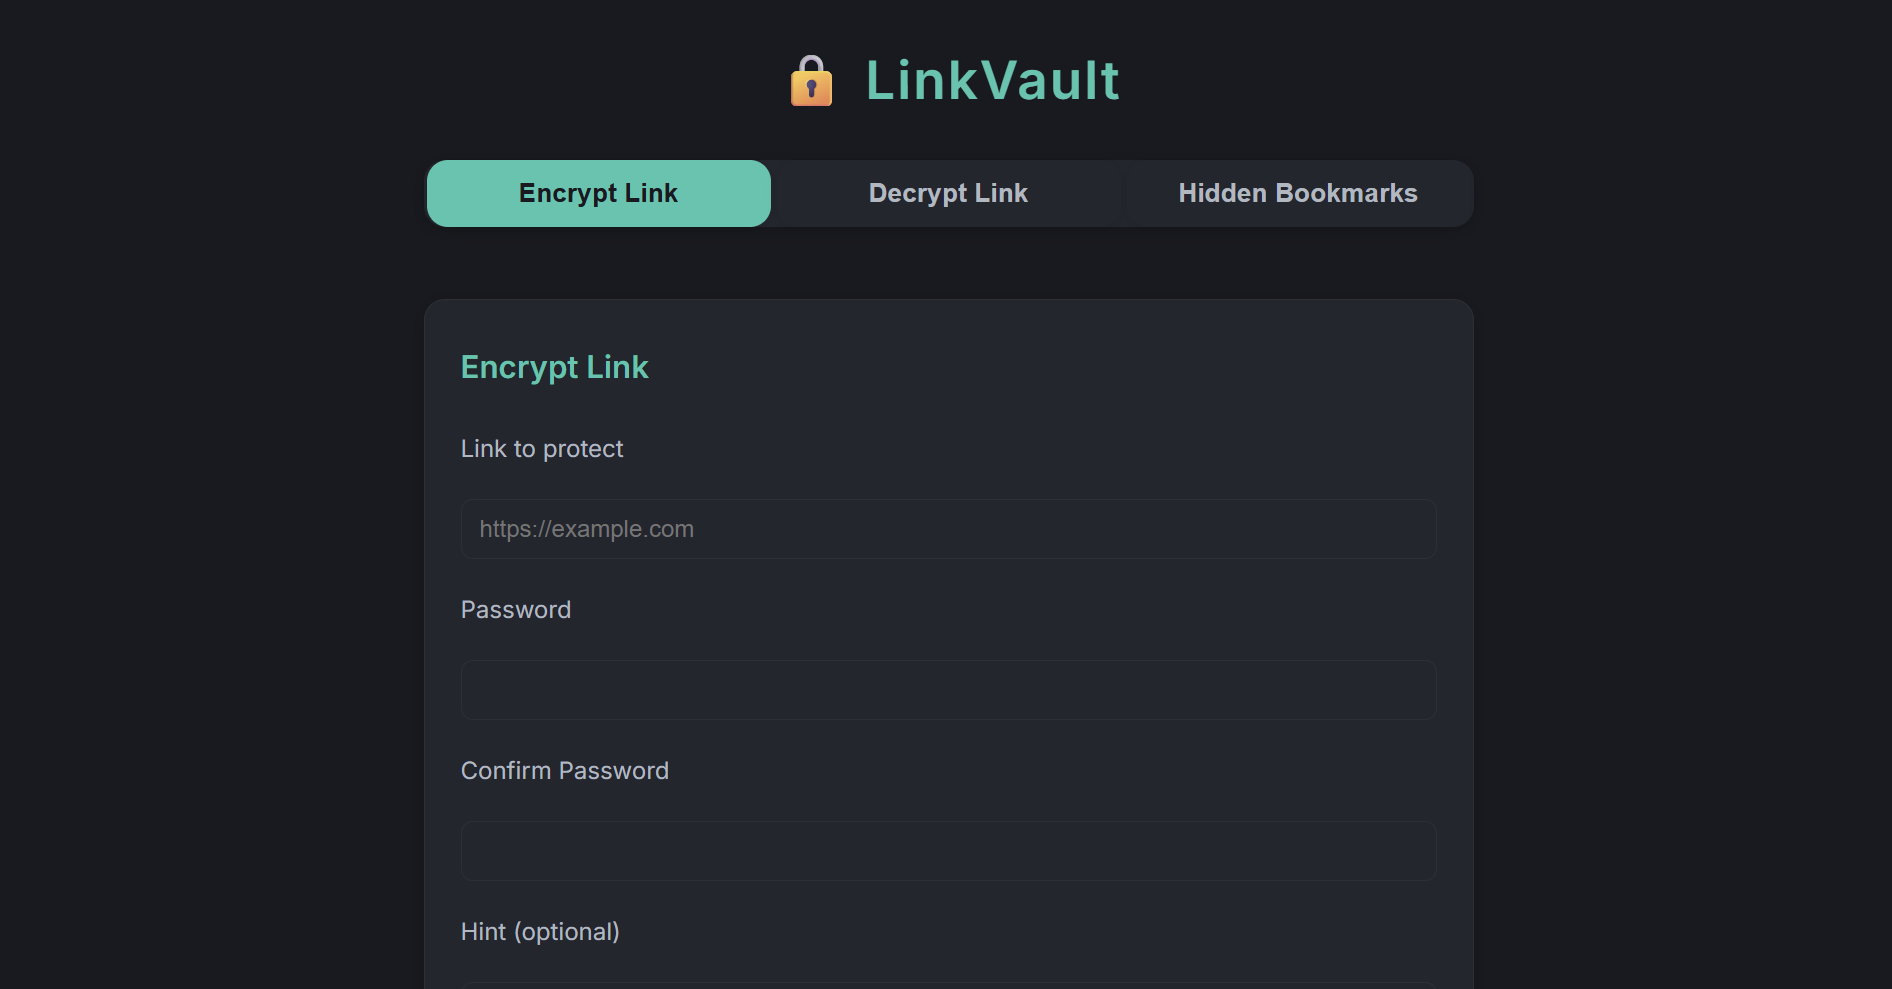
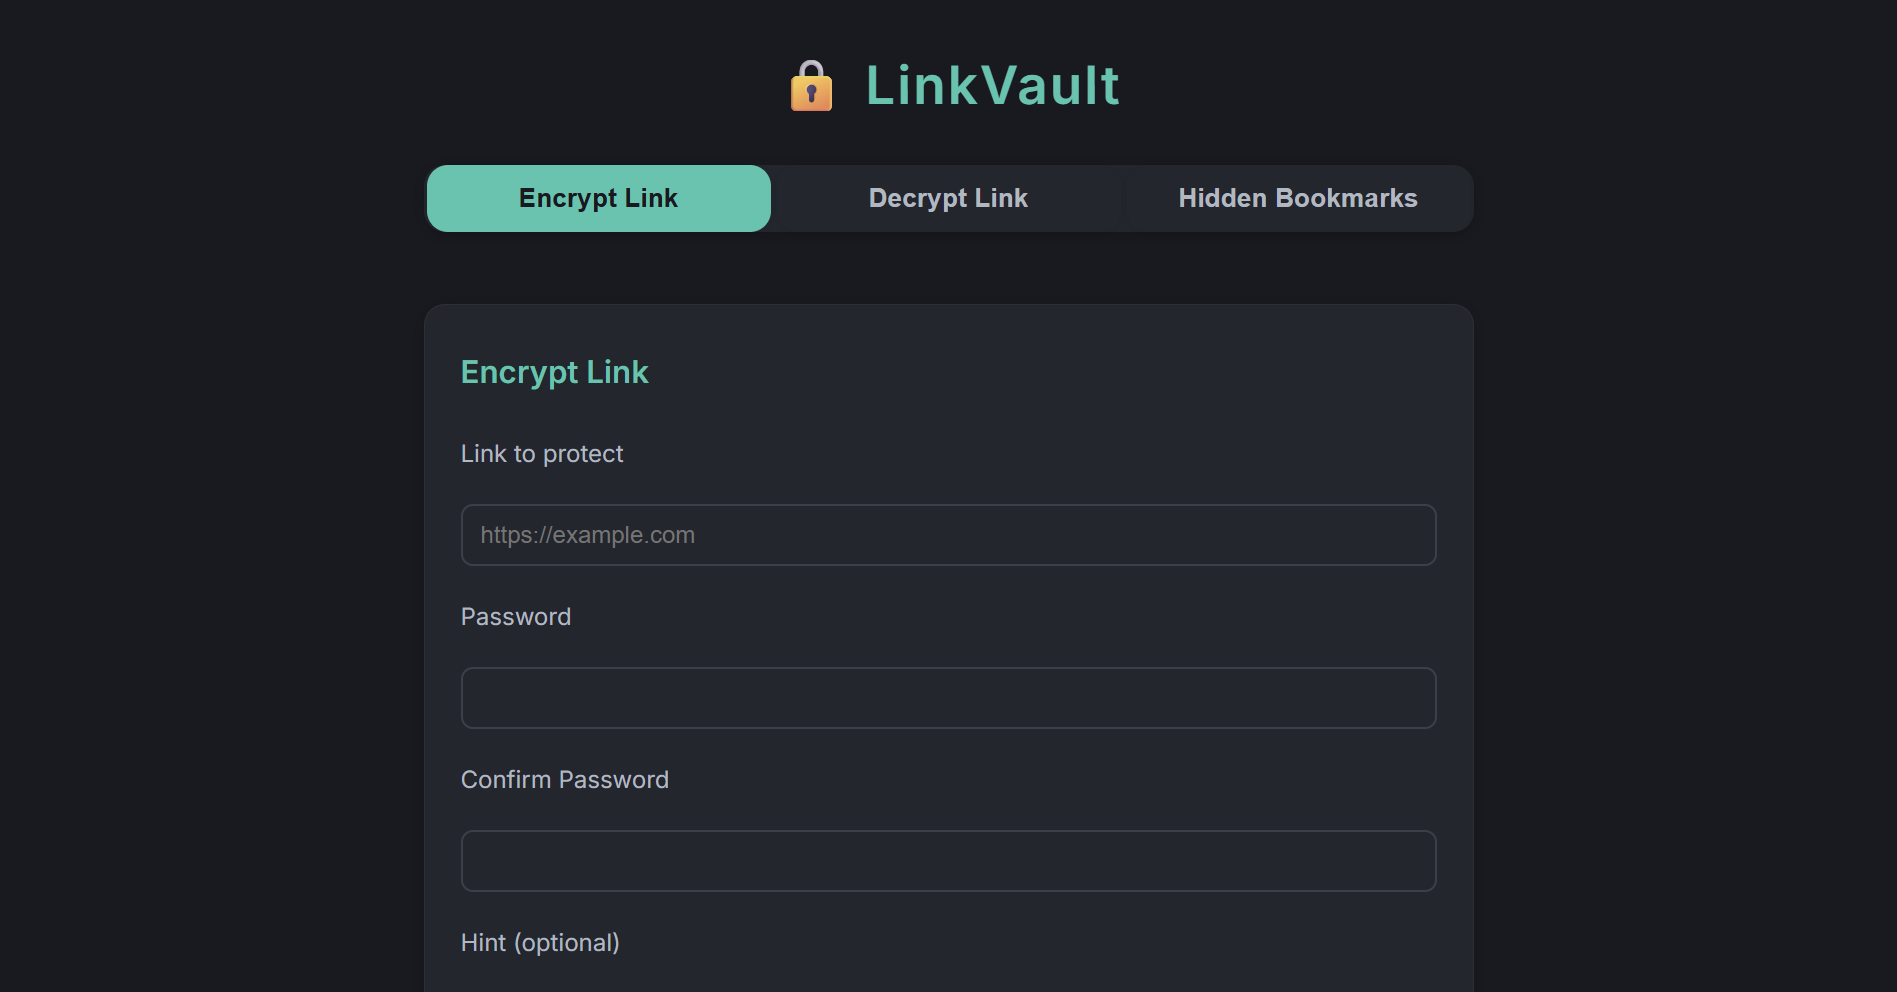
Version 2 release

diff --git a/modern.css b/modern.css
@@ -156,7 +156,7 @@ label {
 input, textarea, select {
   background: #23262f;
   color: var(--text);
-  border: 1px solid var(--border);
+  border: 1.5px solid #3a3f4b;
   border-radius: 8px;
   padding: 10px 12px;
   font-size: 1rem;
@@ -165,7 +165,8 @@ input, textarea, select {
   transition: border 0.2s;
 }
 input:focus, textarea:focus, select:focus {
-  border: 1.5px solid var(--accent);
+  border: 2px solid var(--accent);
+  box-shadow: 0 0 0 2px rgba(0,198,173,0.18);
 }
 
 button, .button {

diff --git a/index.html b/index.html
@@ -3,7 +3,7 @@
 <head>
   <meta charset="utf-8" />
   <meta name="viewport" content="width=device-width, initial-scale=1.0" />
-  <title>LinkVault – Modern LinkVault</title>
+  <title>LinkVault – Link Encryption Tool</title>
   <link rel="stylesheet" href="modern.css" />
   <link rel="icon" href="favicon.svg" type="image/svg+xml" />
   <script type="text/javascript" src="b64.js"></script>

diff --git a/README.md b/README.md
@@ -1,6 +1,6 @@
 # 🔒 LinkVault V2
 
-A modern, privacy-first web app to **encrypt, protect, and disguise your links and bookmarks**. All encryption is done client-side—your secrets never leave your browser.
+A privacy-first web app to **encrypt, protect, and disguise your links and bookmarks**. All encryption is done client-side—your secrets never leave your browser.
 
 ---
 
